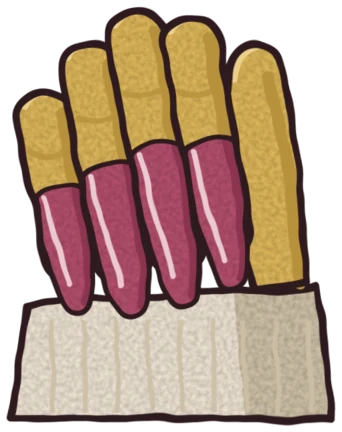
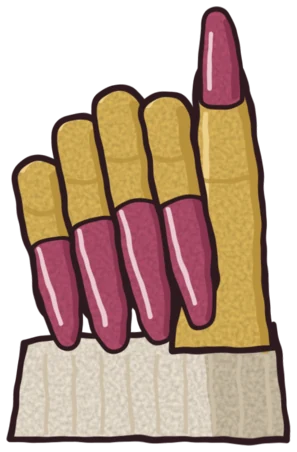
Yassify's thumb is the yassified emoji's: thick, growing from behind the index finger and standing up past the knuckles, with its nail pointing up

diff --git a/src/app/pixi/token-renderer/TokenYassify.ts b/src/app/pixi/token-renderer/TokenYassify.ts
@@ -26,7 +26,7 @@ interface Prop {
  */
 const PROPS: readonly Prop[] = [
   { label: 'tokenBow', url: bowImageUrl, angle: -45, reach: 0.86, width: 0.55, tilt: 0.3 },
-  { label: 'tokenNails', url: nailsImageUrl, angle: 124, reach: 0.84, width: 0.38, tilt: 0 },
+  { label: 'tokenNails', url: nailsImageUrl, angle: 126, reach: 0.84, width: 0.36, tilt: 0 },
   { label: 'tokenCup', url: cupImageUrl, angle: 40, reach: 0.9, width: 0.36, tilt: 0.12 },
 ];
 /** Above the art, ring and glass, below the downed skull and the hidden-token marker. */
